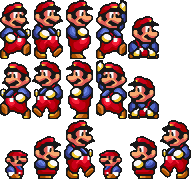
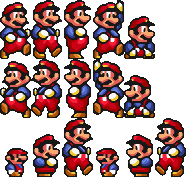
fix sometime not able to jump, NOTE: conflict with nvidia threaded optimization

diff --git a/Mario Forever in C++/sources/Mario.cpp b/Mario Forever in C++/sources/Mario.cpp
@@ -11,7 +11,8 @@
 #include "../headers/Block/Brick.hpp"
 #include "../headers/Core/WindowFrame.hpp"
 #include "../headers/Core/Scroll.hpp"
-#include "../headers/Core/Animate/AnimationManager.hpp"
+#include "../headers/Core/Animate/LocalAnimationManager.hpp"
+#include "../headers/Core/TextureManager.hpp"
 #include "../headers/Block/LuckyBlock.hpp"
 #include "../headers/Core/Loading/Loading.hpp"
 #include "../headers/Core/Collision/Collide.hpp"
@@ -25,8 +26,9 @@
 #include "../resource.h"
 
 //define here
-AnimationManager MarioAnimation;
+LocalAnimationManager MarioAnimation;
 MovableObject player;
+TextureManager MarioTexture;
 float Xvelo = 0.0f;
 float Yvelo = 0.0f;
 bool FirstMarioDirection = false;
@@ -37,7 +39,8 @@ bool Holding;
 bool MarioCrouchDown = false;
 float player_speed;
 int MarioState = 0;
-int PowerState = 1;
+int lastMarioState = -1;
+int PowerState = 0;
 int lastPowerState = 0;
 
 int Lives = 4;
@@ -57,43 +60,35 @@ bool CanControlMario = true;
 sf::Texture SmallMario;
 sf::Texture BigMario;
 std::array<float, 2> PowerOffset = { 30.0f, 7.0f };
-int loadMarioRes() {
+void loadMarioRes() {
 	AppearingTimer.restart();
 	// Resources Loader;
-	LoadTexture(SmallMario, SMALLMARIO_TEXTURE);
-	LoadTexture(BigMario, BIGMARIO_TEXTURE);
+	MarioTexture.LoadingAnimatedTexture(SMALLMARIO_TEXTURE, "IdleSmallLeft", 2, 2, 0, 31, 59);
+	MarioTexture.LoadingAnimatedTexture(SMALLMARIO_TEXTURE, "RunSmallLeft", 0, 2, 0, 31, 59);
+	MarioTexture.LoadingAnimatedTexture(SMALLMARIO_TEXTURE, "JumpSmallLeft", 3, 3, 0, 31, 59);
+	MarioTexture.LoadingAnimatedTexture(SMALLMARIO_TEXTURE, "AppearSmallLeft", 0, 2, 2, 31, 59);
 
-	//set Texture
-	//left (small)
-	MarioAnimation.addAnimation("RunSmallLeft", &SmallMario, { 6,2 }, { 31,59 }, { 0,0 }, 0, { 0,0 }, { 3,0 });
-	MarioAnimation.addAnimation("IdleSmallLeft", &SmallMario, { 6,2 }, { 31,59 }, { 2,0 }, 0, { 2,0 }, { 3,0 });
-	MarioAnimation.addAnimation("JumpSmallLeft", &SmallMario, { 6,2 }, { 31,59 }, { 3,0 }, 0, { 3,0 }, { 4,0 });
-	MarioAnimation.addAnimation("AppearSmallLeft", &SmallMario, { 6,2 }, { 31,59 }, { 0,2 }, 91, { 0,2 }, { 3,2 });
+	MarioTexture.LoadingAnimatedTexture(SMALLMARIO_TEXTURE, "IdleSmallRight", 2, 2, 1, 31, 59);
+	MarioTexture.LoadingAnimatedTexture(SMALLMARIO_TEXTURE, "RunSmallRight", 0, 2, 1, 31, 59);
+	MarioTexture.LoadingAnimatedTexture(SMALLMARIO_TEXTURE, "JumpSmallRight", 3, 3, 1, 31, 59);
+	MarioTexture.LoadingAnimatedTexture(SMALLMARIO_TEXTURE, "AppearSmallRight", 3, 5, 2, 31, 59);
 
-	//left (big)
-	MarioAnimation.addAnimation("RunBigLeft", &BigMario, { 6,2 }, { 31,59 }, { 0,0 }, 0, { 0,0 }, { 3,0 });
-	MarioAnimation.addAnimation("IdleBigLeft", &BigMario, { 6,2 }, { 31,59 }, { 2,0 }, 0, { 2,0 }, { 3,0 });
-	MarioAnimation.addAnimation("JumpBigLeft", &BigMario, { 6,2 }, { 31,59 }, { 3,0 }, 0, { 3,0 }, { 4,0 });
-	MarioAnimation.addAnimation("DownBigLeft", &BigMario, { 6,2 }, { 31,59 }, { 4,0 }, 0, { 4,0 }, { 5,0 });
-	MarioAnimation.addAnimation("AppearBigLeft", &BigMario, { 6,2 }, { 31,59 }, { 0,2 }, 91, { 0,2 }, { 3,2 });
+	MarioTexture.LoadingAnimatedTexture(BIGMARIO_TEXTURE, "IdleBigLeft", 2, 2, 0, 31, 59);
+	MarioTexture.LoadingAnimatedTexture(BIGMARIO_TEXTURE, "RunBigLeft", 0, 2, 0, 31, 59);
+	MarioTexture.LoadingAnimatedTexture(BIGMARIO_TEXTURE, "JumpBigLeft", 3, 3, 0, 31, 59);
+	MarioTexture.LoadingAnimatedTexture(BIGMARIO_TEXTURE, "AppearBigLeft", 0, 2, 2, 31, 59);
+	MarioTexture.LoadingAnimatedTexture(BIGMARIO_TEXTURE, "DownBigLeft", 4, 4, 0, 31, 59);
 
-	//right (small)
-	MarioAnimation.addAnimation("RunSmallRight", &SmallMario, { 6,2 }, { 31,59 }, { 0,1 }, 0, { 0,1 }, { 3,1 });
-	MarioAnimation.addAnimation("IdleSmallRight", &SmallMario, { 6,2 }, { 31,59 }, { 2,1 }, 0, { 2,1 }, { 3,1 });
-	MarioAnimation.addAnimation("JumpSmallRight", &SmallMario, { 6,2 }, { 31,59 }, { 3,1 }, 0, { 3,1 }, { 4,1 });
-	MarioAnimation.addAnimation("AppearSmallRight", &SmallMario, { 6,2 }, { 31,59 }, { 3,2 }, 91, { 3,2 }, { 6,2 });
+	MarioTexture.LoadingAnimatedTexture(BIGMARIO_TEXTURE, "IdleBigRight", 2, 2, 1, 31, 59);
+	MarioTexture.LoadingAnimatedTexture(BIGMARIO_TEXTURE, "RunBigRight", 0, 2, 1, 31, 59);
+	MarioTexture.LoadingAnimatedTexture(BIGMARIO_TEXTURE, "JumpBigRight", 3, 3, 1, 31, 59);
+	MarioTexture.LoadingAnimatedTexture(BIGMARIO_TEXTURE, "AppearBigRight", 3, 5, 2, 31, 59);
+	MarioTexture.LoadingAnimatedTexture(BIGMARIO_TEXTURE, "DownBigRight", 4, 4, 1, 31, 59);
 
-	//right (big)
-	MarioAnimation.addAnimation("RunBigRight", &BigMario, { 6,2 }, { 31,59 }, { 0,1 }, 0, { 0,1 }, { 3,1 });
-	MarioAnimation.addAnimation("IdleBigRight", &BigMario, { 6,2 }, { 31,59 }, { 2,1 }, 0, { 2,1 }, { 3,1 });
-	MarioAnimation.addAnimation("JumpBigRight", &BigMario, { 6,2 }, { 31,59 }, { 3,1 }, 0, { 3,1 }, { 4,1 });
-	MarioAnimation.addAnimation("DownBigRight", &BigMario, { 6,2 }, { 31,59 }, { 4,1 }, 0, { 4,1 }, { 5,1 });
-	MarioAnimation.addAnimation("AppearBigRight", &BigMario, { 6,2 }, { 31,59 }, { 3,2 }, 91, { 3,2 }, { 6,2 });
+	MarioAnimation.setAnimation(0, 0);
 
 	//set property of Mario
-	return 6;
 }
-int MarioInit = loadMarioRes();
 //sprite function
 void KeyboardMovement() {
 	if (CanControlMario && !LevelCompleteEffect) {
@@ -146,11 +141,13 @@ void KeyboardMovement() {
 			if (!PreJump && !Holding) {
 				Sounds.PlaySound("Jump");
 				Yvelo = -13.5f;
+				Holding = true;
 			}
 			else if (PreJump) {
 				Sounds.PlaySound("Jump");
 				Yvelo = -13.5f;
 				PreJump = false;
+				Holding = true;
 			}
 		}
 		if (sf::Keyboard::isKeyPressed(sf::Keyboard::Key::Down) && PowerState > 0 && !MarioCurrentFalling && window.hasFocus()) {
@@ -162,8 +159,7 @@ void KeyboardMovement() {
 			if (Xvelo >= 5.0f && Yvelo < 0.0f) Yvelo -= 0.5f * deltaTime;
 			if (Yvelo >= 0.0f && !Holding) PreJump = true;
 		}
-		if (sf::Keyboard::isKeyPressed(sf::Keyboard::Key::Z) && window.hasFocus()) Holding = true;
-		else Holding = false;
+		if (!sf::Keyboard::isKeyPressed(sf::Keyboard::Key::Z) && window.hasFocus()) Holding = false;
 		if (sf::Keyboard::isKeyPressed(sf::Keyboard::Key::X) && window.hasFocus()) player_speed = 7.5f;
 		else player_speed = 4.375f;
 
@@ -446,12 +442,6 @@ void MarioVertYUpdate() {
 		}
 	}
 }
-void resetAnimation() {
-	MarioAnimation.resetAnimationIndex("RunSmallRight");
-	MarioAnimation.resetAnimationIndex("RunSmallLeft");
-	MarioAnimation.resetAnimationIndex("RunBigRight");
-	MarioAnimation.resetAnimationIndex("RunBigLeft");
-}
 void UpdateAnimation() {
 	//if (PowerState == 0 && !MarioCrouchDown) {
 	//	player.setHitboxMain({ 0.0f + 5.0f, 0.0f + 2.0f, 23.0f, 29.0f });
@@ -489,87 +479,69 @@ void UpdateAnimation() {
 	//animation update
 
 	//mariostate:
-	// 0: idle, 1: run, 2: jump = fall, 3: crouch
+	// 0: idle, 1: run, 2: jump = fall, 3: crouch, 4: appear
+	std::string DirName = (!MarioDirection) ? "Left" : "Right";
 	if (CanControlMario) {
-		if (!MarioDirection) {
-			if (!MarioAppearing) {
-				if (Yvelo == 0.0f && !MarioCurrentFalling && !MarioCrouchDown) {
-					if (Xvelo == 0.0f) {
-						resetAnimation();
-						if (PowerState == 0) MarioAnimation.update("IdleSmallLeft", player.property);
-						else if (PowerState == 1) MarioAnimation.update("IdleBigLeft", player.property);
-						MarioState = 0;
-					}
-					else {
-						MarioAnimation.resetAnimationIndex("RunSmallRight");
-						MarioAnimation.resetAnimationIndex("RunBigRight");
-						if (PowerState == 0) {
-							MarioAnimation.setAnimationFrequency("RunSmallLeft", f_max(24.0f, f_min(Xvelo * 8.0f, 75.0f)));
-							MarioAnimation.update("RunSmallLeft", player.property);
-						}
-						else if (PowerState == 1) {
-							MarioAnimation.setAnimationFrequency("RunBigLeft", f_max(24.0f, f_min(Xvelo * 8.0f, 75.0f)));
-							MarioAnimation.update("RunBigLeft", player.property);
-						}
-						MarioState = 1;
-					}
+		if (!MarioAppearing) {
+			if (Yvelo != 0.0f && MarioCurrentFalling) {
+				MarioState = 2;
+				if (lastMarioState != MarioState && MarioState != 4) {
+					MarioAnimation.setAnimation(0, 0, 0);
+					lastMarioState = MarioState;
 				}
-				else if ((Yvelo != 0.0f || MarioCurrentFalling) && !MarioCrouchDown) {
-					resetAnimation();
-					if (PowerState == 0) MarioAnimation.update("JumpSmallLeft", player.property);
-					else if (PowerState == 1) MarioAnimation.update("JumpBigLeft", player.property);
-					MarioState = 2;
+				if (PowerState == 0) MarioAnimation.update(player.property, MarioTexture.GetAnimatedTexture("JumpSmall" + DirName));
+				else if (PowerState == 1) MarioAnimation.update(player.property, MarioTexture.GetAnimatedTexture("JumpBig" + DirName));
+			}
+			else if (Yvelo == 0.0f && !(!MarioCurrentFalling && sf::Keyboard::isKeyPressed(sf::Keyboard::Key::Down) && PowerState > 0)) {
+				if (Xvelo == 0.0f) {
+					MarioState = 0;
+					if (lastMarioState != MarioState && MarioState != 4) {
+						MarioAnimation.setAnimation(0, 0, 0);
+						lastMarioState = MarioState;
+					}
+					if (PowerState == 0) MarioAnimation.update(player.property, MarioTexture.GetAnimatedTexture("IdleSmall" + DirName));
+					else if (PowerState == 1) MarioAnimation.update(player.property, MarioTexture.GetAnimatedTexture("IdleBig" + DirName));
 				}
-				else if (MarioCrouchDown && PowerState > 0) {
-					resetAnimation();
-					MarioAnimation.update("DownBigLeft", player.property);
-					MarioState = 3;
+				else {
+					MarioState = 1;
+					if (lastMarioState != MarioState && MarioState != 4) {
+						MarioAnimation.SetRangeIndexAnimation(0, 2);
+						lastMarioState = MarioState;
+					}
+					MarioAnimation.setFrequency(f_max(12.0f, f_min(Xvelo * 6.0f, 45.0f)));
+					//MarioAnimation.resetAnimationIndex("RunSmallRight");
+					//MarioAnimation.resetAnimationIndex("RunBigRight");
+					if (PowerState == 0) {
+						//MarioAnimation.setAnimationFrequency("RunSmallLeft", f_max(24.0f, f_min(Xvelo * 8.0f, 75.0f)));
+						//MarioAnimation.update("RunSmallLeft", player.property);
+						MarioAnimation.update(player.property, MarioTexture.GetAnimatedTexture("RunSmall" + DirName));
+					}
+					else if (PowerState == 1) {
+						//MarioAnimation.setAnimationFrequency("RunBigLeft", f_max(24.0f, f_min(Xvelo * 8.0f, 75.0f)));
+						//MarioAnimation.update("RunBigLeft", player.property);
+						MarioAnimation.update(player.property, MarioTexture.GetAnimatedTexture("RunBig" + DirName));
+					}
 				}
 			}
-			else {
-				if (PowerState == 0) MarioAnimation.update("AppearSmallLeft", player.property);
-				else if (PowerState == 1) MarioAnimation.update("AppearBigLeft", player.property);
+			else if (sf::Keyboard::isKeyPressed(sf::Keyboard::Key::Down) && PowerState > 0) {
+				MarioState = 3;
+				if (lastMarioState != MarioState && MarioState != 4) {
+					MarioAnimation.setAnimation(0, 0, 100);
+					lastMarioState = MarioState;
+				}
+				MarioAnimation.update(player.property, MarioTexture.GetAnimatedTexture("DownBig" + DirName));
 			}
 		}
 		else {
-			if (!MarioAppearing) {
-				if (Yvelo == 0.0f && !MarioCurrentFalling && !MarioCrouchDown) {
-					if (Xvelo == 0.0f) {
-						resetAnimation();
-						if (PowerState == 0) MarioAnimation.update("IdleSmallRight", player.property);
-						else if (PowerState == 1) MarioAnimation.update("IdleBigRight", player.property);
-						MarioState = 0;
-					}
-					else {
-						MarioAnimation.resetAnimationIndex("RunSmallLeft");
-						MarioAnimation.resetAnimationIndex("RunBigLeft");
-						if (PowerState == 0) {
-							MarioAnimation.setAnimationFrequency("RunSmallRight", f_max(24.0f, f_min(Xvelo * 8.0f, 75.0f)));
-							MarioAnimation.update("RunSmallRight", player.property);
-						}
-						else if (PowerState == 1) {
-							MarioAnimation.setAnimationFrequency("RunBigRight", f_max(24.0f, f_min(Xvelo * 8.0f, 75.0f)));
-							MarioAnimation.update("RunBigRight", player.property);
-						}
-						MarioState = 1;
-					}
-				}
-				else if ((Yvelo != 0.0f || MarioCurrentFalling) && !MarioCrouchDown) {
-					resetAnimation();
-					if (PowerState == 0) MarioAnimation.update("JumpSmallRight", player.property);
-					else if (PowerState == 1) MarioAnimation.update("JumpBigRight", player.property);
-					MarioState = 2;
-				}
-				else if (MarioCrouchDown && PowerState > 0) {
-					resetAnimation();
-					MarioAnimation.update("DownBigRight", player.property);
-					MarioState = 3;
-				}
+			MarioState = 4;
+			if (lastMarioState != MarioState && MarioState == 4) {
+				MarioAnimation.SetRangeIndexAnimation(0, 2, 100);
+				lastMarioState = MarioState;
 			}
-			else {
-				if (PowerState == 0) MarioAnimation.update("AppearSmallRight", player.property);
-				else if (PowerState == 1) MarioAnimation.update("AppearBigRight", player.property);
-			}
+			if (PowerState == 0) MarioAnimation.update(player.property, MarioTexture.GetAnimatedTexture("AppearSmall" + DirName));
+			else if (PowerState == 1) MarioAnimation.update(player.property, MarioTexture.GetAnimatedTexture("AppearBig" + DirName));
+			//if (PowerState == 0) MarioAnimation.update("AppearSmallLeft", player.property);
+			//else if (PowerState == 1) MarioAnimation.update("AppearBigLeft", player.property);
 		}
 	}
 }

diff --git a/Mario Forever in C++/Source.cpp b/Mario Forever in C++/Source.cpp
@@ -42,6 +42,7 @@ int main() {
 	windowInit();
 	SoundInit();
 	loadObstacleRes();
+	loadMarioRes();
 	BrickParticleInit();
 	loadFontRes();
 	LoadBricks();
@@ -71,7 +72,7 @@ int main() {
 	AddText("_FPS", "", LEFT_MARGIN, 0.0f, 464.0f);
 	//AddText("_DELTA", "", LEFT_MARGIN, 0, 432.0f);
 	//AddText("_HOLDING", "", LEFT_MARGIN, 0.0f, 432.0f);
-	AddText("_CODX", "", RIGHT_MARGIN, 624.0f, 416.0f);
+	//AddText("_CODX", "", RIGHT_MARGIN, 624.0f, 416.0f);
 	//AddText("_CODY", "", RIGHT_MARGIN, 624.0f, 400.0f);
 	//AddText("_FALL", "", LEFT_MARGIN, 0.0f, 48.0f);
 	//AddText("_MARIOXY", "", RIGHT_MARGIN, 624.0f, 448.0f);
@@ -111,7 +112,7 @@ int main() {
 		appe = (MarioAppearing ? "TRUE" : "FALSE");
 		//EditText("DeltaTime: " + std::to_string(deltaTime), "_DELTA");
 		EditText(std::to_string(Lives), "_LIVE");
-		EditText(std::to_string(Xvelo) + " VX", "_CODX");
+		//EditText(std::to_string(Xvelo) + " VX", "_CODX");
 		//EditText(std::to_string(Yvelo) + " VY", "_CODY");
 		//EditText(std::to_string((int)player.property.getPosition().x) + "/" + std::to_string((int)player.property.getPosition().y) + "  M", "_MARIOXY");
 		//EditText("Crouch Down: " + fall, "_FALL");

diff --git a/Mario Forever in C++/headers/Core/Animate/LocalAnimationManager.hpp b/Mario Forever in C++/headers/Core/Animate/LocalAnimationManager.hpp
@@ -31,6 +31,23 @@ public:
 		this->TextureAddress = 0;
 		this->SpriteAddress = 0;
 	}
+	void SetRangeIndexAnimation(int startingIndexAnimation, int endingIndexAnimation, int frequency = 50) {
+		if (this->startingIndexAnimation != startingIndexAnimation || this->endingIndexAnimation != endingIndexAnimation) {
+			this->startingIndexAnimation = startingIndexAnimation;
+			this->endingIndexAnimation = endingIndexAnimation;
+			this->frequency = frequency;
+			this->indexAnimation = startingIndexAnimation;
+			this->TimeRun.restart();
+			this->TimeRan = 0.0f;
+			this->TimeRemainSave = 0.0f;
+		}
+		else {
+			this->frequency = frequency;
+			this->TimeRun.restart();
+			this->TimeRan = 0.0f;
+			this->TimeRemainSave = 0.0f;
+		}
+	}
 	void setIndexAnimation(int indexAnimation) {
 		this->indexAnimation = indexAnimation;
 	}

diff --git a/Mario Forever in C++/headers/Object/Mario.hpp b/Mario Forever in C++/headers/Object/Mario.hpp
@@ -19,7 +19,6 @@ public:
 	sf::FloatRect hitboxSlopeBot;
 	sf::Sprite property = sf::Sprite(tempTex);
 };
-extern AnimationManager MarioAnimation;
 extern void UpdateAnimation();
 extern MovableObject player;
 extern float player_speed;
@@ -40,6 +39,7 @@ extern void PowerDown();
 extern void MarioVertYUpdate();
 extern void MarioVertXUpdate();
 extern void CheckForDeath();
+extern void loadMarioRes();
 extern void Death();
 extern int PowerState;
 extern int Lives;
